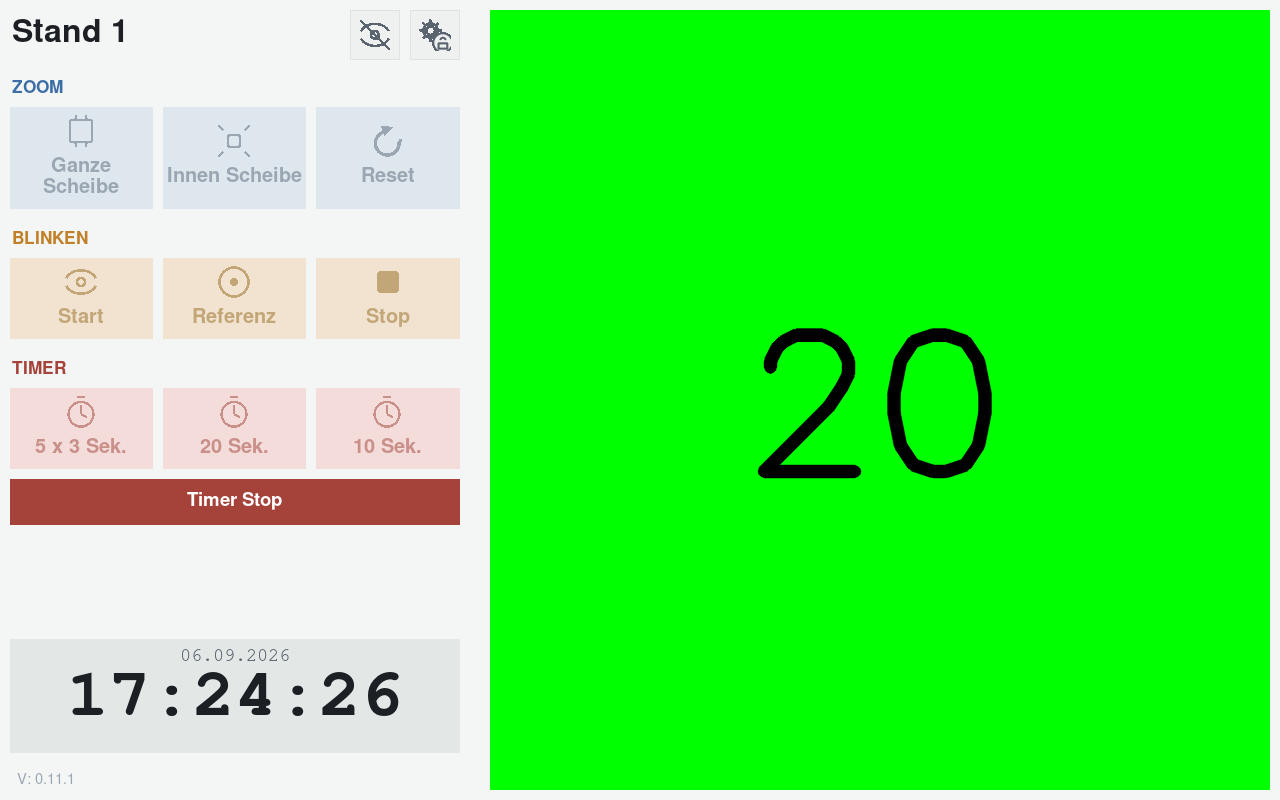
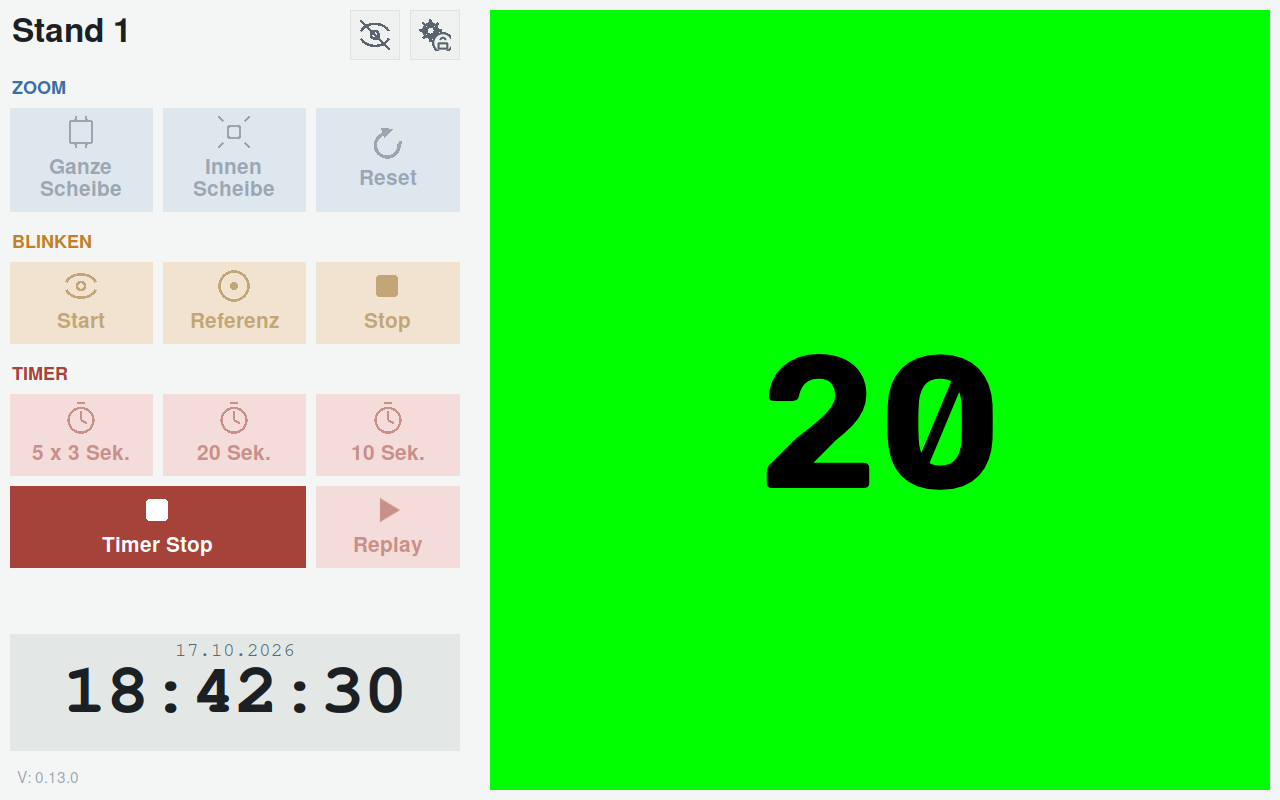
Handbuch: Screenshots mit der neuen Timer-Reihe, Abb. 6 zeigt das Replay
Abb. 1-5 und das Video-aus-Bild zeigen die Timer-Reihe mit Timer Stop
über zwei Spalten und dem Replay-Knopf. Neue Abb. 6 zeigt ein laufendes
Replay, die folgenden Abbildungen rücken um eins weiter. docs/screenshot.png
ebenfalls neu.

diff --git a/benutzerhandbuch/Benutzerhandbuch.html b/benutzerhandbuch/Benutzerhandbuch.html
@@ -463,6 +463,11 @@ footer{
         <div class="grp">
         <h3 id="replay">Replay im Detail</h3>
         <p>Während jedes Timers zeichnet das Gerät die grünen Phasen (Sichtzeiten) im Hintergrund auf: bei <b>5&nbsp;&times;&nbsp;3&nbsp;Sek.</b> die fünf Durchgänge, bei <b>20&nbsp;Sek.</b> und <b>10&nbsp;Sek.</b> die eine Sichtzeit. Die Aufnahme liegt nur im Arbeitsspeicher und wird nirgends gespeichert.</p>
+        <figure class="plate">
+          <img src="screenshots/06_replay.png" alt="Replay mit violettem Rahmen">
+          <figcaption class="fig-note">Abb. 6 &ndash; Replay in der Zoomstufe Innen Scheibe: violetter Rahmen, &bdquo;REPLAY&ldquo; und Zähler in Zehntelsekunden. Der Knopf heißt jetzt Replay&nbsp;Ende.</figcaption>
+        </figure>
+        </div>
         <ul>
           <li><b>Replay</b> spielt die Aufnahme in Echtzeit ab, beliebig oft. Zu Beginn erscheint eine Sekunde lang ein rotes Startbild mit dem Timer-Modus (z.&nbsp;B. &bdquo;5&nbsp;x&nbsp;3&nbsp;Sek.&ldquo;). Am Ende erscheint eine Sekunde lang ein rotes Schlussbild, danach kehrt die Anzeige von selbst zum Live-Bild zurück.</li>
           <li>Während des Replays heißt der Knopf <b>Replay&nbsp;Ende</b>. Er kehrt sofort zum Live-Bild zurück, ohne das Ende abzuwarten. Die Aufnahme bleibt erhalten und lässt sich später erneut abspielen.</li>
@@ -475,14 +480,13 @@ footer{
           <li><b>Replay</b> ist gesperrt, solange keine Aufnahme vorliegt, während eines Timers und bei ausgeblendetem Video.</li>
           <li>Fiel die Kamera während der Aufnahme aus, zeigt das Replay an dieser Stelle &bdquo;kein Bild&ldquo;.</li>
         </ul>
-        </div>
 
         <div class="grp">
         <h3 id="video-aus">&bdquo;Video aus&ldquo; im Detail</h3>
         <p>Ein Klick auf das Augen-Symbol (Kopfzeile, Punkt 2) blendet das Kamerabild aus und zeigt das Vereinswappen auf schwarzem Grund &ndash; etwa wenn niemand am Stand ist. Uhrzeit/Datum laufen normal weiter. Das Symbol wechselt dabei auf ein Auge ohne Schrägstrich; ein erneuter Klick darauf schaltet das Live-Bild wieder ein.</p>
         <figure class="plate">
-          <img src="screenshots/06_video_aus_logo.png" alt="Video aus, Vereinswappen als Wasserzeichen">
-          <figcaption class="fig-note">Abb. 6 &ndash; Video ausgeblendet, Vereinswappen als Wasserzeichen.</figcaption>
+          <img src="screenshots/07_video_aus_logo.png" alt="Video aus, Vereinswappen als Wasserzeichen">
+          <figcaption class="fig-note">Abb. 7 &ndash; Video ausgeblendet, Vereinswappen als Wasserzeichen.</figcaption>
         </figure>
         </div>
       </section>
@@ -500,7 +504,7 @@ footer{
         <div class="grp">
         <h3 id="pin-eingabe">PIN-Eingabe</h3>
         <p>Nach Klick auf das Zahnrad erscheint das PIN-Tastenfeld:</p>
-        <figure class="plate"><img src="screenshots/07_pin_eingabe.png" alt="PIN-Eingabe Tastenfeld"><figcaption class="fig-note">Abb. 7 &ndash; PIN-Tastenfeld.</figcaption></figure>
+        <figure class="plate"><img src="screenshots/08_pin_eingabe.png" alt="PIN-Eingabe Tastenfeld"><figcaption class="fig-note">Abb. 8 &ndash; PIN-Tastenfeld.</figcaption></figure>
         </div>
         <ol class="legend">
           <li><span class="legend-num admin">1</span><div><b>Ziffernblock 0&ndash;9</b><p>Eingabe der PIN (4&ndash;6-stellig). Ziffern werden als Sternchen dargestellt.</p></div></li>
@@ -510,7 +514,7 @@ footer{
         </ol>
 
         <h3 id="einstellungen">Einstellungen-Menü</h3>
-        <figure class="plate"><img src="screenshots/08_einstellungen_menue.png" alt="Einstellungen-Menü"><figcaption class="fig-note">Abb. 8 &ndash; Einstellungen-Menü.</figcaption></figure>
+        <figure class="plate"><img src="screenshots/09_einstellungen_menue.png" alt="Einstellungen-Menü"><figcaption class="fig-note">Abb. 9 &ndash; Einstellungen-Menü.</figcaption></figure>
         <ol class="legend">
           <li><span class="legend-num admin">1</span><div><b>Ganze Scheibe</b><p>Öffnet den Ausschnitte-Editor zur Neukalibrierung dieses Ausschnitts.</p></div></li>
           <li><span class="legend-num admin">2</span><div><b>Innen Scheibe</b><p>Öffnet denselben Editor für den Detailzoom-Ausschnitt.</p></div></li>
@@ -524,7 +528,7 @@ footer{
         <div class="grp">
         <h3 id="editor">Ausschnitte-Editor (Kalibrierung)</h3>
         <p>Hier werden die vier Eckpunkte festgelegt, die den schrägen Kamerablick in ein gerades Top-down-Bild umrechnen &ndash; getrennt für &bdquo;Ganze Scheibe&ldquo; und &bdquo;Innen Scheibe&ldquo;. Nötig bei verschobener Kamera/Scheibe oder bei der Ersteinrichtung eines neuen Standes.</p>
-        <figure class="plate"><img src="screenshots/09_ausschnitte_editor_lupe.png" alt="Ausschnitte-Editor mit Lupe"><figcaption class="fig-note">Abb. 9 &ndash; Ausschnitte-Editor, Lupe beim Ziehen eines Eckpunkts eingeblendet.</figcaption></figure>
+        <figure class="plate"><img src="screenshots/10_ausschnitte_editor_lupe.png" alt="Ausschnitte-Editor mit Lupe"><figcaption class="fig-note">Abb. 10 &ndash; Ausschnitte-Editor, Lupe beim Ziehen eines Eckpunkts eingeblendet.</figcaption></figure>
         </div>
         <ol class="legend">
           <li><span class="legend-num admin">1</span><div><b>Titel</b><p>Zeigt an, welcher Ausschnitt bearbeitet wird.</p></div></li>
@@ -538,7 +542,7 @@ footer{
         <div class="grp">
         <h3 id="stand-wechseln">Stand wechseln</h3>
         <p>Erlaubt, ein Gerät auf einen anderen Schießstand (mit eigener Kamera) umzustellen. Die Standliste wird zentral gepflegt und ist auf allen Geräten identisch &ndash; welcher Stand angezeigt wird, wird pro Gerät einzeln hier gewählt.</p>
-        <figure class="plate"><img src="screenshots/10_stand_auswaehlen.png" alt="Stand auswählen"><figcaption class="fig-note">Abb. 10 &ndash; Stand-Auswahl.</figcaption></figure>
+        <figure class="plate"><img src="screenshots/11_stand_auswaehlen.png" alt="Stand auswählen"><figcaption class="fig-note">Abb. 11 &ndash; Stand-Auswahl.</figcaption></figure>
         </div>
         <ol class="legend">
           <li><span class="legend-num admin">1</span><div><b>Liste der Stände</b><p>Ein Fingertipp markiert einen Eintrag.</p></div></li>
@@ -554,7 +558,7 @@ footer{
           <li style="margin-bottom:10px;">Zunächst muss die <b>aktuell gültige PIN</b> eingegeben werden (dasselbe Tastenfeld wie oben) &ndash; verhindert, dass jemand, der zufällig ans offene Menü gelangt, die PIN einfach überschreibt.</li>
           <li style="margin-bottom:10px;">
             Danach erscheint das Tastenfeld erneut, Titel &bdquo;Neuen PIN eingeben (4-6 Ziffern)&ldquo;. Der Standard-PIN &bdquo;1234&ldquo; wird nicht angenommen (Hinweis &bdquo;zu einfach&ldquo;):
-            <figure class="plate" style="margin-top:14px;"><img src="screenshots/11_neuen_pin_eingeben.png" alt="Neuen PIN eingeben"><figcaption class="fig-note">Abb. 11 &ndash; Neuen PIN eingeben.</figcaption></figure>
+            <figure class="plate" style="margin-top:14px;"><img src="screenshots/12_neuen_pin_eingeben.png" alt="Neuen PIN eingeben"><figcaption class="fig-note">Abb. 12 &ndash; Neuen PIN eingeben.</figcaption></figure>
           </li>
           <li style="margin-bottom:10px;">Die neue PIN muss zur Kontrolle ein zweites Mal eingegeben werden. Stimmen beide Eingaben nicht überein, erscheint kurz &bdquo;PINs stimmen nicht überein&ldquo;, und es geht zurück zur neuen-PIN-Eingabe &ndash; die bereits bestätigte aktuelle PIN muss dafür nicht erneut eingegeben werden.</li>
           <li style="margin-bottom:10px;">Nach zweimal übereinstimmender Eingabe wird die neue PIN gespeichert. Genau wie bei den anderen Einstellungsänderungen startet das Gerät danach automatisch neu, damit der neue PIN sauber übernommen wird.</li>
@@ -565,7 +569,7 @@ footer{
         <div class="grp">
         <h3 id="neustart">Gerät neu starten</h3>
         <p>Über &bdquo;Neu starten&ldquo; im Einstellungen-Menü lässt sich das Gerät gezielt neu booten, z.&nbsp;B. wenn die Kamera-Verbindung dauerhaft hängt.</p>
-        <figure class="plate"><img src="screenshots/12_neustart_bestaetigen.png" alt="Neustart bestätigen"><figcaption class="fig-note">Abb. 12 &ndash; Neustart-Bestätigung.</figcaption></figure>
+        <figure class="plate"><img src="screenshots/13_neustart_bestaetigen.png" alt="Neustart bestätigen"><figcaption class="fig-note">Abb. 13 &ndash; Neustart-Bestätigung.</figcaption></figure>
         </div>
         <ol class="legend">
           <li><span class="legend-num admin">1</span><div><b>Ja, neu starten</b><p>Startet das Gerät sofort neu. Zuerst erscheint das Boot-Logo, danach der Hauptbildschirm.</p></div></li>

diff --git a/benutzerhandbuch/Benutzerhandbuch.md b/benutzerhandbuch/Benutzerhandbuch.md
@@ -92,6 +92,10 @@ Während eines laufenden Timers wird kein Kamerabild angezeigt und Zoom/Blinken/
 
 Während jedes Timers zeichnet das Gerät die grünen Phasen (Sichtzeiten) im Hintergrund auf: bei **5 x 3 Sek.** die fünf Durchgänge, bei **20 Sek.** und **10 Sek.** die eine Sichtzeit. Die Aufnahme liegt nur im Arbeitsspeicher und wird nirgends gespeichert.
 
+![Replay](screenshots/06_replay.png)
+
+**Abb. 6:** Replay in der Zoomstufe „Innen Scheibe“: violetter Rahmen, „REPLAY“ und Zähler in Zehntelsekunden. Der Knopf heißt jetzt **Replay Ende**.
+
 - **Replay** spielt die Aufnahme in Echtzeit ab, beliebig oft. Zu Beginn erscheint eine Sekunde lang ein rotes Startbild mit dem Timer-Modus (z. B. „5 x 3 Sek.“). Am Ende erscheint eine Sekunde lang ein rotes Schlussbild, danach kehrt die Anzeige von selbst zum Live-Bild zurück.
 - Während des Replays heißt der Knopf **Replay Ende**. Er kehrt sofort zum Live-Bild zurück, ohne das Ende abzuwarten. Die Aufnahme bleibt erhalten und lässt sich später erneut abspielen.
 - Das Replay ist deutlich gekennzeichnet: violetter Rahmen, „REPLAY“ oben links und oben rechts ein Zähler in Zehntelsekunden, der in jeder Sichtzeit bei 0,0 beginnt (z. B. „7,3 s“, bei 5 x 3 „Durchgang 2/5  1,4 s“).
@@ -107,9 +111,9 @@ Während jedes Timers zeichnet das Gerät die grünen Phasen (Sichtzeiten) im Hi
 
 Ein Klick auf das Augen-Symbol in der Kopfzeile (Punkt 2) blendet das Kamerabild aus und zeigt stattdessen das Vereinswappen auf schwarzem Grund – etwa wenn zwischen zwei Trainingseinheiten niemand am Stand ist. Die Uhrzeit/Datumsanzeige läuft normal weiter. Das Symbol wechselt dabei auf ein Auge ohne Schrägstrich; ein erneuter Klick darauf schaltet das Live-Bild wieder ein.
 
-![Video aus – Wasserzeichen](screenshots/06_video_aus_logo.png)
+![Video aus – Wasserzeichen](screenshots/07_video_aus_logo.png)
 
-**Abb. 6:** Video ausgeblendet, Vereinswappen als Wasserzeichen auf schwarzem Grund.
+**Abb. 7:** Video ausgeblendet, Vereinswappen als Wasserzeichen auf schwarzem Grund.
 
 ---
 
@@ -123,9 +127,9 @@ Der PIN-Schutz ist bewusst kein Hochsicherheitsmechanismus gegen gezielte Angrif
 
 Nach Klick auf das Zahnrad-Symbol erscheint das PIN-Tastenfeld:
 
-![PIN-Eingabe](screenshots/07_pin_eingabe.png)
+![PIN-Eingabe](screenshots/08_pin_eingabe.png)
 
-**Abb. 7:** PIN-Tastenfeld.
+**Abb. 8:** PIN-Tastenfeld.
 
 1. **Ziffernblock 0–9** – Eingabe der PIN (4–6-stellig). Eingegebene Ziffern werden als Sternchen dargestellt.
 2. **Löschen** – setzt die aktuelle Eingabe zurück auf leer.
@@ -136,9 +140,9 @@ Nach korrekter Eingabe öffnet sich das Einstellungen-Menü.
 
 ### 3.2 Einstellungen-Menü
 
-![Einstellungen-Menü](screenshots/08_einstellungen_menue.png)
+![Einstellungen-Menü](screenshots/09_einstellungen_menue.png)
 
-**Abb. 8:** Einstellungen-Menü.
+**Abb. 9:** Einstellungen-Menü.
 
 1. **Ganze Scheibe** – öffnet den Ausschnitte-Editor (siehe 3.3) zur Neukalibrierung des Bildausschnitts „Ganze Scheibe“.
 2. **Innen Scheibe** – öffnet denselben Editor für den Ausschnitt „Innen Scheibe“ (Detailzoom).
@@ -153,9 +157,9 @@ Nach korrekter Eingabe öffnet sich das Einstellungen-Menü.
 
 Hier werden die vier Eckpunkte festgelegt, die den schrägen Kamerablick auf die Zielscheibe in ein gerades, top-down-Bild umrechnen – getrennt für „Ganze Scheibe“ und „Innen Scheibe“. Das ist nötig, wenn sich die Kamera oder die Scheibe verschoben hat, oder bei der Ersteinrichtung eines neuen Standes.
 
-![Ausschnitte-Editor mit Lupe](screenshots/09_ausschnitte_editor_lupe.png)
+![Ausschnitte-Editor mit Lupe](screenshots/10_ausschnitte_editor_lupe.png)
 
-**Abb. 9:** Ausschnitte-Editor, Lupe beim Ziehen eines Eckpunkts eingeblendet.
+**Abb. 10:** Ausschnitte-Editor, Lupe beim Ziehen eines Eckpunkts eingeblendet.
 
 1. **Titel** (oben) – zeigt an, welcher Ausschnitt gerade bearbeitet wird.
 2. **Kamerabild mit vier nummerierten Eckpunkten (1–4, rot/gelb)** – jeder Punkt kann per Fingertipp gegriffen und gezogen werden, um ihn exakt auf eine Ecke der Zielscheibe zu positionieren. Eine gelbe Linie verbindet die vier Punkte zur Kontrolle. Ist der jeweils andere Ausschnitt (z. B. „Innen Scheibe“, während „Ganze Scheibe“ bearbeitet wird) bereits kalibriert, wird er zusätzlich hellgrau zur Orientierung eingeblendet.
@@ -168,9 +172,9 @@ Hier werden die vier Eckpunkte festgelegt, die den schrägen Kamerablick auf die
 
 Erlaubt es, ein und dasselbe Gerät auf einen anderen Schießstand (mit eigener Kamera) umzustellen. Die Liste der verfügbaren Stände wird zentral gepflegt und ist auf allen Geräten der Vereinsflotte identisch – welcher Stand tatsächlich angezeigt wird, wird pro Gerät einzeln hier ausgewählt.
 
-![Stand auswählen](screenshots/10_stand_auswaehlen.png)
+![Stand auswählen](screenshots/11_stand_auswaehlen.png)
 
-**Abb. 10:** Stand-Auswahl.
+**Abb. 11:** Stand-Auswahl.
 
 1. **Liste der verfügbaren Stände** – ein Fingertipp markiert einen Eintrag.
 2. **Auswählen** (blau hervorgehoben) – übernimmt den markierten Stand. Das Gerät verbindet sich anschließend mit dessen Kamera und startet neu.
@@ -185,9 +189,9 @@ Anders als die übrigen Unterabschnitte hier ist dies kein einzelner Bildschirm 
 1. Zunächst muss die **aktuell gültige PIN** eingegeben werden (dasselbe Tastenfeld wie in 3.1) – so lässt sich verhindern, dass jemand, der zufällig kurz an das offene Einstellungen-Menü gelangt, die PIN einfach überschreibt.
 2. Danach erscheint das Tastenfeld erneut mit dem Titel **„Neuen PIN eingeben (4-6 Ziffern)“**. Der Standard-PIN „1234“ wird nicht angenommen (Hinweis „zu einfach“); bitte eine andere PIN wählen:
 
-![Neuen PIN eingeben](screenshots/11_neuen_pin_eingeben.png)
+![Neuen PIN eingeben](screenshots/12_neuen_pin_eingeben.png)
 
-**Abb. 11:** Neuen PIN eingeben.
+**Abb. 12:** Neuen PIN eingeben.
 
 3. Anschließend muss die neue PIN zur Kontrolle ein zweites Mal eingegeben werden („PIN wiederholen“). Stimmen beide Eingaben nicht überein, erscheint kurz der Hinweis „PINs stimmen nicht überein“, und es geht zurück zu Schritt 2 (neue PIN eingeben) – die bereits bestätigte aktuelle PIN aus Schritt 1 muss dafür nicht erneut eingegeben werden.
 4. Nach zweimal übereinstimmender Eingabe wird die neue PIN gespeichert. Genau wie bei den anderen Einstellungsänderungen (siehe 3.2) startet das Gerät danach automatisch neu, damit der neue PIN sauber übernommen wird.
@@ -197,9 +201,9 @@ Anders als die übrigen Unterabschnitte hier ist dies kein einzelner Bildschirm 
 
 Über „Neu starten“ im Einstellungen-Menü lässt sich das Gerät gezielt neu booten, z. B. wenn die Kamera-Verbindung dauerhaft hängt.
 
-![Neustart bestätigen](screenshots/12_neustart_bestaetigen.png)
+![Neustart bestätigen](screenshots/13_neustart_bestaetigen.png)
 
-**Abb. 12:** Neustart-Bestätigung.
+**Abb. 13:** Neustart-Bestätigung.
 
 1. **Ja, neu starten** (blau hervorgehoben) – startet das Gerät sofort neu. Zunächst erscheint das Boot-Logo (Vereinswappen), danach der Hauptbildschirm.
 2. **Abbrechen** – kehrt ohne Neustart zum Einstellungen-Menü zurück.
